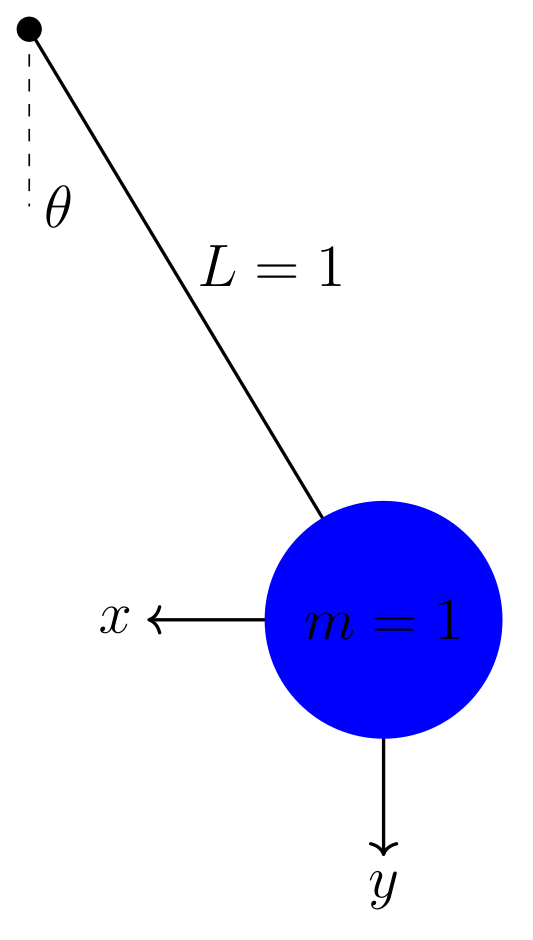
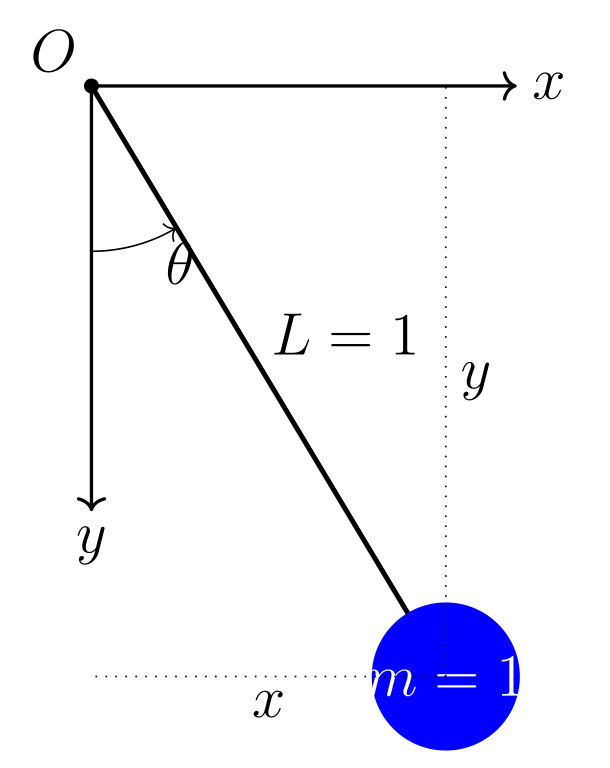
Correct the pendulum figure: axes belong at the pivot, not the bob
The model is xddot = -Tx, yddot = g - Ty, x^2 + y^2 = 1, so (x,y) is
the bob's position measured FROM THE PIVOT. Placing the axes at the bob
puts the bob at the origin and makes the algebraic constraint false.
The published figure did exactly that.

Redrawn with the origin at the pivot, x positive right, y positive down
(which is what makes yddot = g - Ty correct with g > 0), and the
components shown as dotted projections. The reasoning is in the file
header so it is not "fixed" back.

The 2018 handwritten scan also places the axes at the pivot, so this
restores agreement between the website, the course pack and the source
notes.

diff --git a/figures/tikz/pendulum.tex b/figures/tikz/pendulum.tex
@@ -1,24 +1,46 @@
+% Index-3 pendulum, the classic DAE example (Ascher & Petzold).
+%
+% AXES ARE AT THE PIVOT, not at the bob. The model is
+%
+%     xddot = -T x,    yddot = g - T y,    x^2 + y^2 = 1
+%
+% so (x,y) is the bob's position MEASURED FROM THE PIVOT, and the algebraic
+% constraint says it lies at unit distance from the origin. Drawing the axes at
+% the bob would put the bob at the origin and make x^2 + y^2 = 1 false.
+%
+% An earlier version of this figure did exactly that, and was published to the
+% website that way. Corrected 2026-08-17 to match the mathematics and the
+% Fall 2018 scan, which also places the axes at the pivot.
+%
+% y is positive DOWNWARD, which is what makes yddot = g - T y correct with
+% g > 0. x is positive to the right, so the bob drawn down-and-right has
+% x > 0 and y > 0.
+
 \begin{tikzpicture}
 
-% Drawing the pivot point
-\filldraw[black] (-1, 3) ellipse (0.1cm and 0.1cm);
+% Pivot: the origin of the coordinate system
+\filldraw[black] (-1, 3) circle (1.6pt);
+\node[above left] at (-1, 3) {\Large $O$};
 
-% Drawing the pendulum arm
-\draw[thick] (-1, 3) -- (2, -2) ;
+% Coordinate axes, rooted AT THE PIVOT
+\draw[->, thick] (-1, 3) -- (2.6, 3) node[right] {\Large $x$};
+\draw[->, thick] (-1, 3) -- (-1, -0.6) node[below] {\Large $y$};
 
-\node at (1.05,1) {\Large $L = 1$} ;
+% Reference vertical, and the angle from it
+\draw[dashed] (-1, 3) -- (-1, 0.2);
+\draw[->] (-1, 1.6) arc (270:301:1.4);
+\node at (-0.25, 1.5) {\Large $\theta$};
 
-% Coordinate axes at the bob's position
-\draw[->, thick] (2, -2) -- (0, -2) node[left] {\Large $x$};
-\draw[->, thick] (2, -2) -- (2, -4) node[below] {\Large $y$};
+% Pendulum arm
+\draw[very thick] (-1, 3) -- (2, -2);
+\node at (1.15, 0.9) {\Large $L = 1$};
 
-% Drawing the mass (bob) at the end of the pendulum
-\filldraw[blue] (2, -2) circle (1cm);
+% Bob
+\filldraw[blue] (2, -2) circle (0.62cm);
+\node[white] at (2, -2) {\Large $m = 1$};
 
-% Drawing the angle arc
-\draw[-, dashed] (-1, 3) -- (-1, 1.5) node[right] {\Large $\theta$};
-
-
-\node at (2,-2) {\Large $m = 1$} ;
+% Components of the bob position, measured from the pivot
+\draw[dotted] (2, -2) -- (2, 3) node[midway, right] {\Large $y$};
+\draw[dotted] (2, -2) -- (-1, -2) node[midway, below] {\Large $x$};
 
 \end{tikzpicture}
